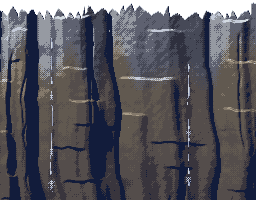
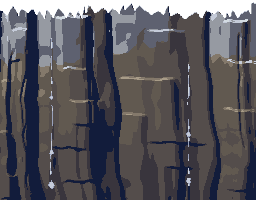
Lanternhold world lane: the rock in clean clusters against Louis' art bar (no dither, no lone pixels), the Weltmauer's mist in clean patches
At 400 % the height-field paint was checkerboard dither on every gradient and a dithered band between the cold top
and the warm granite. Now: no dither, the sky's fall shifted per buttress (no bands across the wall), a pass that
gives every lone pixel its neighbours' colour, the slit's cold light only on the lit faces under a clean line per
buttress, solid puffs of spray, step B a value paler. The fog's alpha keeps its ordered dither (M1).

diff --git a/games/lanternhold/tools/rockfield.py b/games/lanternhold/tools/rockfield.py
@@ -6,10 +6,11 @@ A rock face is a height field z(x, y): how far each pixel stands out toward the 
 buttresses (columns of rock whose boundaries wander down the face, each its own depth, with a lit west bevel, a broad
 front and a shaded east bevel), the chimneys between them, ledges (the block below steps out: a lit top) and overhangs
 (the block above steps out: a shadow under it), joints (thin V grooves), exfoliation sheets (long diagonal steps),
-a slow swell and a fine grain. `shade` lights the field from the upper left and from the sky above (the cleft's slit):
+a slow swell and a middle grain. `shade` lights the field from the upper left and from the sky above (the cleft's slit):
 Lambert on the field's normal, cast shadows marched toward the light, a cavity term, and less light deeper down. The
-painter maps the light onto a ramp of palette colours with a sparse ordered dither, and adds snow on the faces that
-look up, a cold rim on the edges that meet the sky, wet streaks and threads of water.
+painter maps the light onto a ramp of palette colours in clean clusters (no dither, no lone pixels: Louis' art bar),
+and adds the slit's cold light on the lit faces, snow on the faces that look up, a cold rim on the edges that meet
+the sky, wet streaks and threads of water with solid puffs of spray.
 
 Light from the upper left, as everywhere in the game.
 """
@@ -164,7 +165,6 @@ class Massif:
                 z += 1.4 * r * ss((f - 0.12) / 0.06) * (1 - ss((f - 0.88) / 0.06)) * vnoise(self.seed * 53 + k, y / 40.0)
         z += 10.0 * r * (vnoise2(self.seed * 13, gx / 60.0, y / 90.0) - 0.5)
         z += 1.6 * r * (vnoise2(self.seed * 23, gx / 12.0, y / 20.0) - 0.5)
-        z += 0.45 * r * (vnoise2(self.seed * 17, gx / 3.0, y / 4.0) - 0.5)
         return z
 
 
@@ -176,12 +176,22 @@ class Field:
         self.gx0, self.w, self.h, self.m = gx0, w, h, margin
         self.top = {gx: top(gx) for gx in range(gx0 - margin, gx0 + w + margin)}
         self.z = []
+        self.cols = []
         for y in range(h):
             row = []
+            cols = []
             for x in range(-margin, w + margin):
                 gx = gx0 + x
                 row.append(massif.z(gx, y) if y >= self.top[gx] else None)
+                cols.append(massif.column(gx, y)[0])
             self.z.append(row)
+            self.cols.append(cols)
+
+    def column(self, x, y):
+        """The buttress a canvas pixel belongs to."""
+        y = max(0, min(self.h - 1, y))
+        x = max(-self.m, min(self.w + self.m - 1, x))
+        return self.cols[y][x + self.m]
 
     def at(self, x, y):
         """Height at canvas x, y (None: sky)."""
@@ -242,13 +252,14 @@ def shade(field, x, y, light=LIGHT, sky_fall=0.5, ambient=0.14):
     cav = 0.0 if not cnt else max(-1.0, min(1.0, (z0 - acc / cnt) / 4.0))
     ao = 0.78 + 0.22 * cav
     # the sky light falls off down the face (deep in the cleft); the up-facing faces take more of it
-    t = y / float(field.h)
+    j = field.column(x, y)
+    t = min(1.0, max(0.0, (y + 26 * (h01(911, j) - 0.5)) / float(field.h)))
     sky = (1.0 - sky_fall * t ** 1.2) * (1.0 + 0.25 * max(0.0, -ny))
     v = (ambient * ao + 0.92 * diff * lit * (0.85 + 0.15 * ao)) * sky
     return v, ny, lit
 
 
-def paint(field, ramp_name, gain=1.0, lift=0.0, dither=0.45, snow_rows=0, snow_share=0.6, rim=0.55, mist_left=None,
+def paint(field, ramp_name, gain=1.0, lift=0.0, dither=0.0, snow_rows=0, snow_share=0.6, rim=0.55, mist_left=None,
           wet=(), seed=1, contrast=1.0, cold_rows=0):
     """The field painted on a new image: light → ramp index with a sparse ordered dither; snow on the faces that look
     up in the top `snow_rows`; a cold rim on the edges against the sky; `wet` streaks below water threads; west of
@@ -277,11 +288,13 @@ def paint(field, ramp_name, gain=1.0, lift=0.0, dither=0.45, snow_rows=0, snow_s
             k = max(0, min(n - 1, int(round(q))))
             c = ramp[k]
             if cold_rows and y < cold_rows:
-                # the slit's cold light: the face's top in the castle's cool slate; its lower edge wanders (with the
-                # light that reaches down the lit buttresses) and dithers over a few rows into the granite
-                line = cold_rows * (0.35 + 0.65 * vnoise(seed * 71, gx / 23.0)) + 24 * max(0.0, v - 0.45)
-                if y < line - 12 or (y < line + 12 and bay(gx + 2, y + 1) < (line + 12 - y) / 24.0):
-                    c = cold[k]
+                # the slit's cold light: the face's top in the castle's cool slate; its lower edge is a clean line of
+                # its own on every buttress (it steps at the chimneys) that reaches further down the lit faces
+                j = field.column(x, y)
+                line = cold_rows * (0.35 + 0.55 * h01(seed * 71, j)) + 10 * (vnoise(seed * 73 + j, gx / 9.0) - 0.5) \
+                    + 22 * max(0.0, v - 0.5)
+                if y < line and k >= 3:
+                    c = cold[k]   # only the lit faces catch it; the shade stays the granite's
             if snow_rows and y < snow_rows and ny < -0.42:
                 # snow lies in patches on the ledges that look up, more of it higher up
                 share = (snow_rows - y) / float(snow_rows)
@@ -297,7 +310,31 @@ def paint(field, ramp_name, gain=1.0, lift=0.0, dither=0.45, snow_rows=0, snow_s
                 if t > 0.75 or (t > 0.3 and bay(gx, y) < (t - 0.3) * 2.2):
                     c = mist if v > 0.45 else mist_dark
             img.set(x, y, c)
+    declump(img)
     return img
+
+
+def declump(img, passes=2):
+    """No lone pixels: an opaque pixel that no 4-neighbour shares the colour of takes its neighbours' most common
+    colour (a pixel artist's clean clusters)."""
+    w, h = img.w, img.h
+    for _ in range(passes):
+        changes = []
+        for y in range(h):
+            for x in range(w):
+                p = img.get(x, y)
+                if not p[3]:
+                    continue
+                around = [img.get(xx, yy) for (xx, yy) in ((x - 1, y), (x + 1, y), (x, y - 1), (x, y + 1))
+                          if 0 <= xx < w and 0 <= yy < h]
+                opaque = [q for q in around if q[3]]
+                if len(opaque) < 3 or any(q == p for q in opaque):
+                    continue
+                best = max(set(opaque), key=opaque.count)
+                if opaque.count(best) >= 2:
+                    changes.append((x, y, best))
+        for (x, y, c) in changes:
+            img.set(x, y, c)
 
 
 def thread(img, gx0, seed, gx, y0, y1, spray):
@@ -320,12 +357,15 @@ def thread(img, gx0, seed, gx, y0, y1, spray):
             x += 1 if h01(seed, gx, y, 43) < 0.5 else -1
     x = gx - gx0
     for (sy, r) in spray:
-        for dy in range(-1, int(r * 1.8)):
-            half = int(1 + r * (0.4 + 0.6 * max(0, dy) / (r * 1.8)))
+        r *= 0.7
+        # a small puff where the water lands: a pale core and a mist rim, solid clusters (no dither)
+        for dy in range(0, int(r * 1.5) + 1):
+            half = int(round(0.6 + r * 0.55 * (1 - abs(dy - r * 0.6) / (r * 0.9 + 1))))
             for dx in range(-half, half + 1):
                 xx, yy = x + dx, sy + dy
                 if not (0 <= xx < img.w and 0 <= yy < img.h) or not img.get(xx, yy)[3]:
                     continue
-                d = (abs(dx) / float(half + 1)) + max(0, dy) / (r * 2.0)
-                if bay(xx + gx0, yy) > 0.25 + 0.75 * d:
-                    img.set(xx, yy, mist if d > 0.45 else light)
+                edge = abs(dx) == half or dy == int(r * 1.5)
+                if edge and h01(seed, gx, sy, dx, dy) < 0.35:
+                    continue
+                img.set(xx, yy, mist if edge else light)

diff --git a/games/lanternhold/tools/cleftart.py b/games/lanternhold/tools/cleftart.py
@@ -182,7 +182,7 @@ def step_b():
     field = RF.Field(Niche(451, gx0 - 60, gx0 + w + 60, h, 22, 70, relief=0.75, ledge_gap=(16, 44)), gx0, w, h,
                      lambda gx: h - hgt(min(gx0 + w - 1, max(gx0, gx))))
     return RF.paint(field, "slate", snow_rows=44, snow_share=0.65, seed=451, contrast=0.9,
-                    lift=0.02)
+                    lift=0.08)
 
 
 # ---------------------------------------------------------------------------------------------- the shaft
@@ -272,7 +272,8 @@ def mistleft(path):
     bank of mist rises from its foot, slowly at first and steeply near the west end (there it hides the whole wall),
     its top rolling in humps of two sizes. Under the top the rock dissolves into the mist by an ordered dither over
     some 30 rows, so the top is soft and never a line; the mist is darker where it is thin and paler where it is
-    dense (low and to the west). In place; run once, after `noslot`, on the wall the build makes."""
+    dense (low and to the west), in clean patches, never a dither. In place; run once, after `noslot`, on the wall the
+    build makes."""
     img = PA.read_png(path)[0]
     out = PA.Image(img.w, img.h, list(img.px))
     light, mist, dark = col("mistLight"), col("mist"), col("mistDark")
@@ -287,10 +288,11 @@ def mistleft(path):
                 continue
             down = y - top
             share = RF.ss(down / 30.0) * (0.45 + 0.55 * RF.ss(u * 1.8))
-            if bay(x, y) >= share:
+            # the mist takes the rock in clean patches (a noise of 5 px clusters, no dither)
+            if vnoise2(919, x / 5.0, y / 4.0) >= share:
                 continue
             dense = RF.ss(down / 70.0) * (0.5 + 0.5 * u)
-            q = dense * 2 + (bay(x + 2, y + 1) - 0.5) * 0.9
+            q = dense * 2 + (vnoise2(921, x / 7.0, y / 5.0) - 0.5) * 0.8
             c = dark if q < 0.6 else mist if q < 1.45 else light
             out.set(x, y, (c[0], c[1], c[2], p[3]))
     PA.write_png(path, out)

diff --git a/games/lanternhold/ART-look2.md b/games/lanternhold/ART-look2.md
@@ -1665,9 +1665,14 @@ with one light from the upper left:
   overhangs (a third of the steps) with a shadow under them; thin joints; a slow swell and a fine grain;
 - light: Lambert on the field's normal, cast shadows marched toward the light, a cavity term, less light deeper down
   the cleft and more on the faces that look up into the slit;
-- paint: the light on a six-step ramp with a sparse 4x4 ordered dither; the top 90 rows of the cleft take the
-  castle's cool slate ramp instead of the warm granite (the slit's cold light), its lower edge wandering and dithered
-  over 24 rows; snow in patches on the ledges of the top 60 rows; a cold rim on every edge against the sky.
+- paint: the light on a six-step ramp in clean clusters, no dither (Louis' art bar, `ci-out/director/artbar.md`:
+  "no dither mush", "every cluster placed on purpose"); the sky's fall down the face is shifted per buttress, so
+  the shading steps never line up into bands across the wall; a last pass gives every lone pixel its neighbours'
+  colour (`rockfield.declump`). The slit's cold light: on the cleft's top 90 rows the lit faces (the three lightest
+  steps) take the castle's cool slate instead of the warm granite, below a clean line of its own on every buttress
+  that steps at the chimneys and reaches further down the lit faces; the shade stays granite. Snow in patches on the
+  ledges of the top 60 rows; a cold rim on every edge against the sky; the threads of water land in small solid
+  puffs of spray.
 
 ### 21.2 The pieces
 
@@ -1678,22 +1683,39 @@ with one light from the upper left:
 | `throatStepC`, `cleftWallA…C` | `cleft` (nightBlue to rockPale), contrast 1.15 | the towering wall: one canvas (mid 600 to 1528) so the joins vanish; the slit's teeth and chockstones from `slit()`; threads of water at 902, 1131, 1268, mostly pale mist with brighter runs, broken where the water leaves the rock, a wet streak widening below each |
 | `gateRockL/R` | `gate` (nightDeep to rockPale), contrast 1.1 | broad plinths, highest at each tower's outer edge, falling under the masonry in a ragged stair |
 | `bankSheetA…C` | the night body (night0, nightDeep, nightBlue, nightSlate), a rim of nightSlate to mistDark | soft fog: the core's top and the face swirled by two scales of noise into billows and wisps; the cover grows over 14 to 22 px in eight dithered steps; the shell on the moon's side catches a little light |
-| `weltmauer` (`mistleft`) | mistDark, mist, mistLight | the wall's first 320 columns sink into mist that rises steeply only near the west end; dense and pale low down, thin and dark at its soft top |
+| `weltmauer` (`mistleft`) | mistDark, mist, mistLight | the wall's first 320 columns sink into mist that rises steeply only near the west end; dense and pale low down, thin and dark at its top, in clean patches |
+| `gloomFogBack/Mid/Front` | stage 7's night ramps | repainted for M1: stage 7 painted them as three to six flat value bands with stepped billow tops (the "contour map" of the review); now a rolling, swirled top periodic over the tile, eight dithered alpha steps and the colour darkening from a pale crest to the night heart in dithered steps; same ids, sizes and frames (the face's left column goes on from the tile, its right end runs out clear) |
 
 The first bank sheets were a trapezoid of night with a straight sloped face and a 6 px edge; a chain of round
 billows read as soap bubbles. The swirled density is what reads as fog.
 
-### 21.3 Values
+### 21.3 Against the art bar (Louis, 14.11.: "dass man gar nicht sieht, dass es von einer KI gemacht wurde")
+
+Checked at 400 % and at phone size. Redrawn because of it:
+
+- **The rock** (`throatStepA…C`, `cleftWallA…C`, `gateRockL/R`): the first height-field paint used a 4x4 ordered
+  dither on every gradient and a dithered 24-row band between the cold top and the warm granite; at 400 % that was
+  checkerboard mush. Now clean clusters, no dither, no lone pixels, the cold light only on the lit faces under a clean
+  line; the finest grain of the field is gone (it only made specks). The spray of the threads was a dithered
+  sparkle; now small solid puffs.
+- **The Weltmauer's mist** (`mistleft`): the rock dissolved into mist by an ordered dither; now the mist takes the
+  rock in clean patches of a 5 px noise.
+- **Kept dithered on purpose:** the fog's alpha (`d2FogBank`, `d2MistBand`, `d2FogLow`, the bank's sheets, the
+  Gloom's strips). They are the renderer's fog (white or night masks the engine tints and covers by alpha), and the
+  review's M1 asks for ordered dither between their 6 to 8 steps; their edges must be soft, the rock's must not.
+
+### 21.4 Values
 
 The cleft wall is the castle's backdrop: by day it sits at about the castle stone's value, so the buildings separate
 by hue (warm granite behind cool slate) and detail; at dusk the mid plane's haze makes it lighter than the
 buildings' shaded walls, so they stand as silhouettes against it; at night it is blue with its ledges still
 readable. The steps grow paler and cooler toward the west, the world plane keeps the strongest contrast.
 
-### 21.4 Rebuild
+### 21.5 Rebuild
 
 `bash games/lanternhold/tools/build-art-world.sh throatStepA throatStepB throatStepC cleftWallA cleftWallB
-cleftWallC cleftShaft gateRockL gateRockR d2FogBank d2MistBand d2FogLow bankSheetA bankSheetB bankSheetC` (one
+cleftWallC cleftShaft gateRockL gateRockR d2FogBank d2MistBand d2FogLow bankSheetA bankSheetB bankSheetC
+gloomFogBack gloomFogMid gloomFogFront` (one
 sprite per run, each under 15 s on the old Mac; the script waits at 80 °C). The Weltmauer's `noslot` and `mistleft`
 run inside its `weltmauer` step.
 <!-- END world lane: section 21 -->

diff --git a/games/lanternhold/DESIGN.md b/games/lanternhold/DESIGN.md
@@ -3285,13 +3285,20 @@ warm valley beyond the back gate).
   `tools/fogart.py`) are tiles with a 48 px dithered feather at each end, laid every `width − 64` px
   (`FrameBuilder.fogOverlap`), their feathers complementary inside the overlap; the density thins upward under a
   soft rolling top in eight alpha steps with ordered dither, and stands still under Reduce Motion. The Gloom's strips
-  are cut into 8 or 4 px pieces where a fire's hole changes the cover steeply (`FrameBuilder.gloomSubSlices`), so the
-  fog thins toward a fire in small steps instead of 16 px columns.
+  (`gloomFogBack`, `gloomFogMid`, `gloomFogFront`) are repainted the same way (stage 7 painted flat bands with
+  stepped tops: the review's "contour map"), same ids, sizes and frames; they are cut into 8 or 4 px pieces where a
+  fire's hole changes the cover steeply (`FrameBuilder.gloomSubSlices`), so the fog thins toward a fire in small
+  steps instead of 16 px columns.
+- **Set borders** (B5): the valley's tree belt (`d2TreeBelt`, mid 1400 and 1920) stands at z 2 behind the cleft wall's
+  last crags, so its west end is hidden by the rock where the cleft opens to the valley.
+- **Look 2's backdrop lights** reach the mid plane at 0.5 of their strength (0.3 before; `Shaders.metal`
+  `lh2_base`): the warden statue's bowl fire and the castle's lanterns on the cleft wall.
 - **The art** is pure python and rebuilds byte for byte (`tools/build-art-world.sh`): `tools/rockfield.py` paints
   granite as a lit height field (buttresses with lit west and shaded east bevels, chimneys, ledges and overhangs,
   joints, cast shadows marched toward the light, a cavity term, less light deeper in the cleft), `tools/cleftart.py`
-  cuts the cleft and the steps and the gate's rock from it, `tools/fogart.py` paints the fog and the bank. ART-look2.md
-  section 21 has the notes, SPRITES.md "The rock and the fog" the ids.
+  cuts the cleft and the steps and the gate's rock from it, `tools/fogart.py` paints the fog, the bank and the Gloom's
+  strips. The rock is painted in clean clusters without dither (Louis' art bar); only the fog's alpha is dithered.
+  ART-look2.md section 21 has the notes, SPRITES.md "The rock and the fog" the ids.
 - **Tests**: `FrameBuilderTests.testNoFogEdgeEndsInTheViewWithoutAFeatherOrANeighbour` (B4: every fog sprite's art
   feathers out, the hour's tiles overlap complementarily, and from the bank to the river at three hours, with and
   without the Gloom's fog, no fog instance's edge column stands in the view without a feather or a neighbour);
